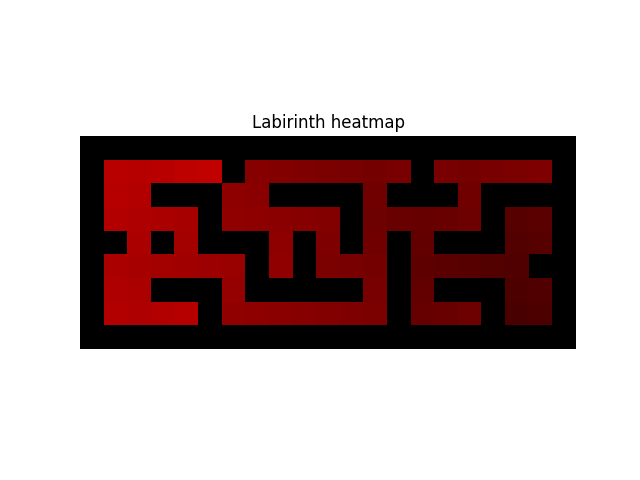
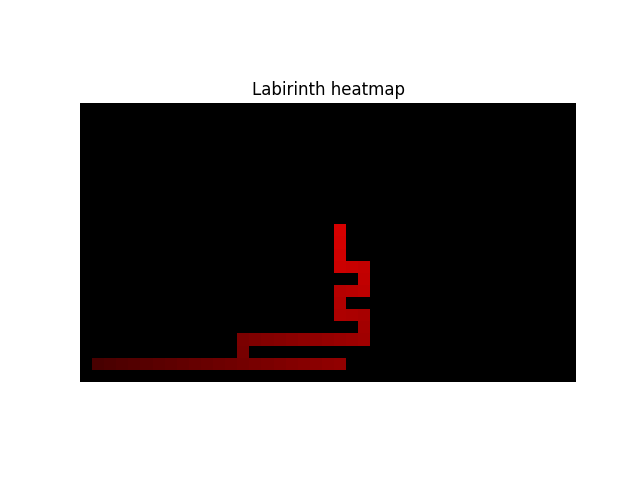
input2 fix

Changed region(s): [[0.125, 0.3125, 0.9062, 0.8125], [0.125, 0.1562, 0.9062, 0.2812]]

diff --git a/4ora/main.py b/4ora/main.py
@@ -3,7 +3,7 @@ import numpy as np              # pip install numpy
 
 # Input beolvasása:
 map = []
-with open("4ora/input.txt", "r", encoding="utf-8") as f:
+with open("4ora/input2.txt", "r", encoding="utf-8") as f:
    for line in f:
        map.append(list(line.strip())) 
 
